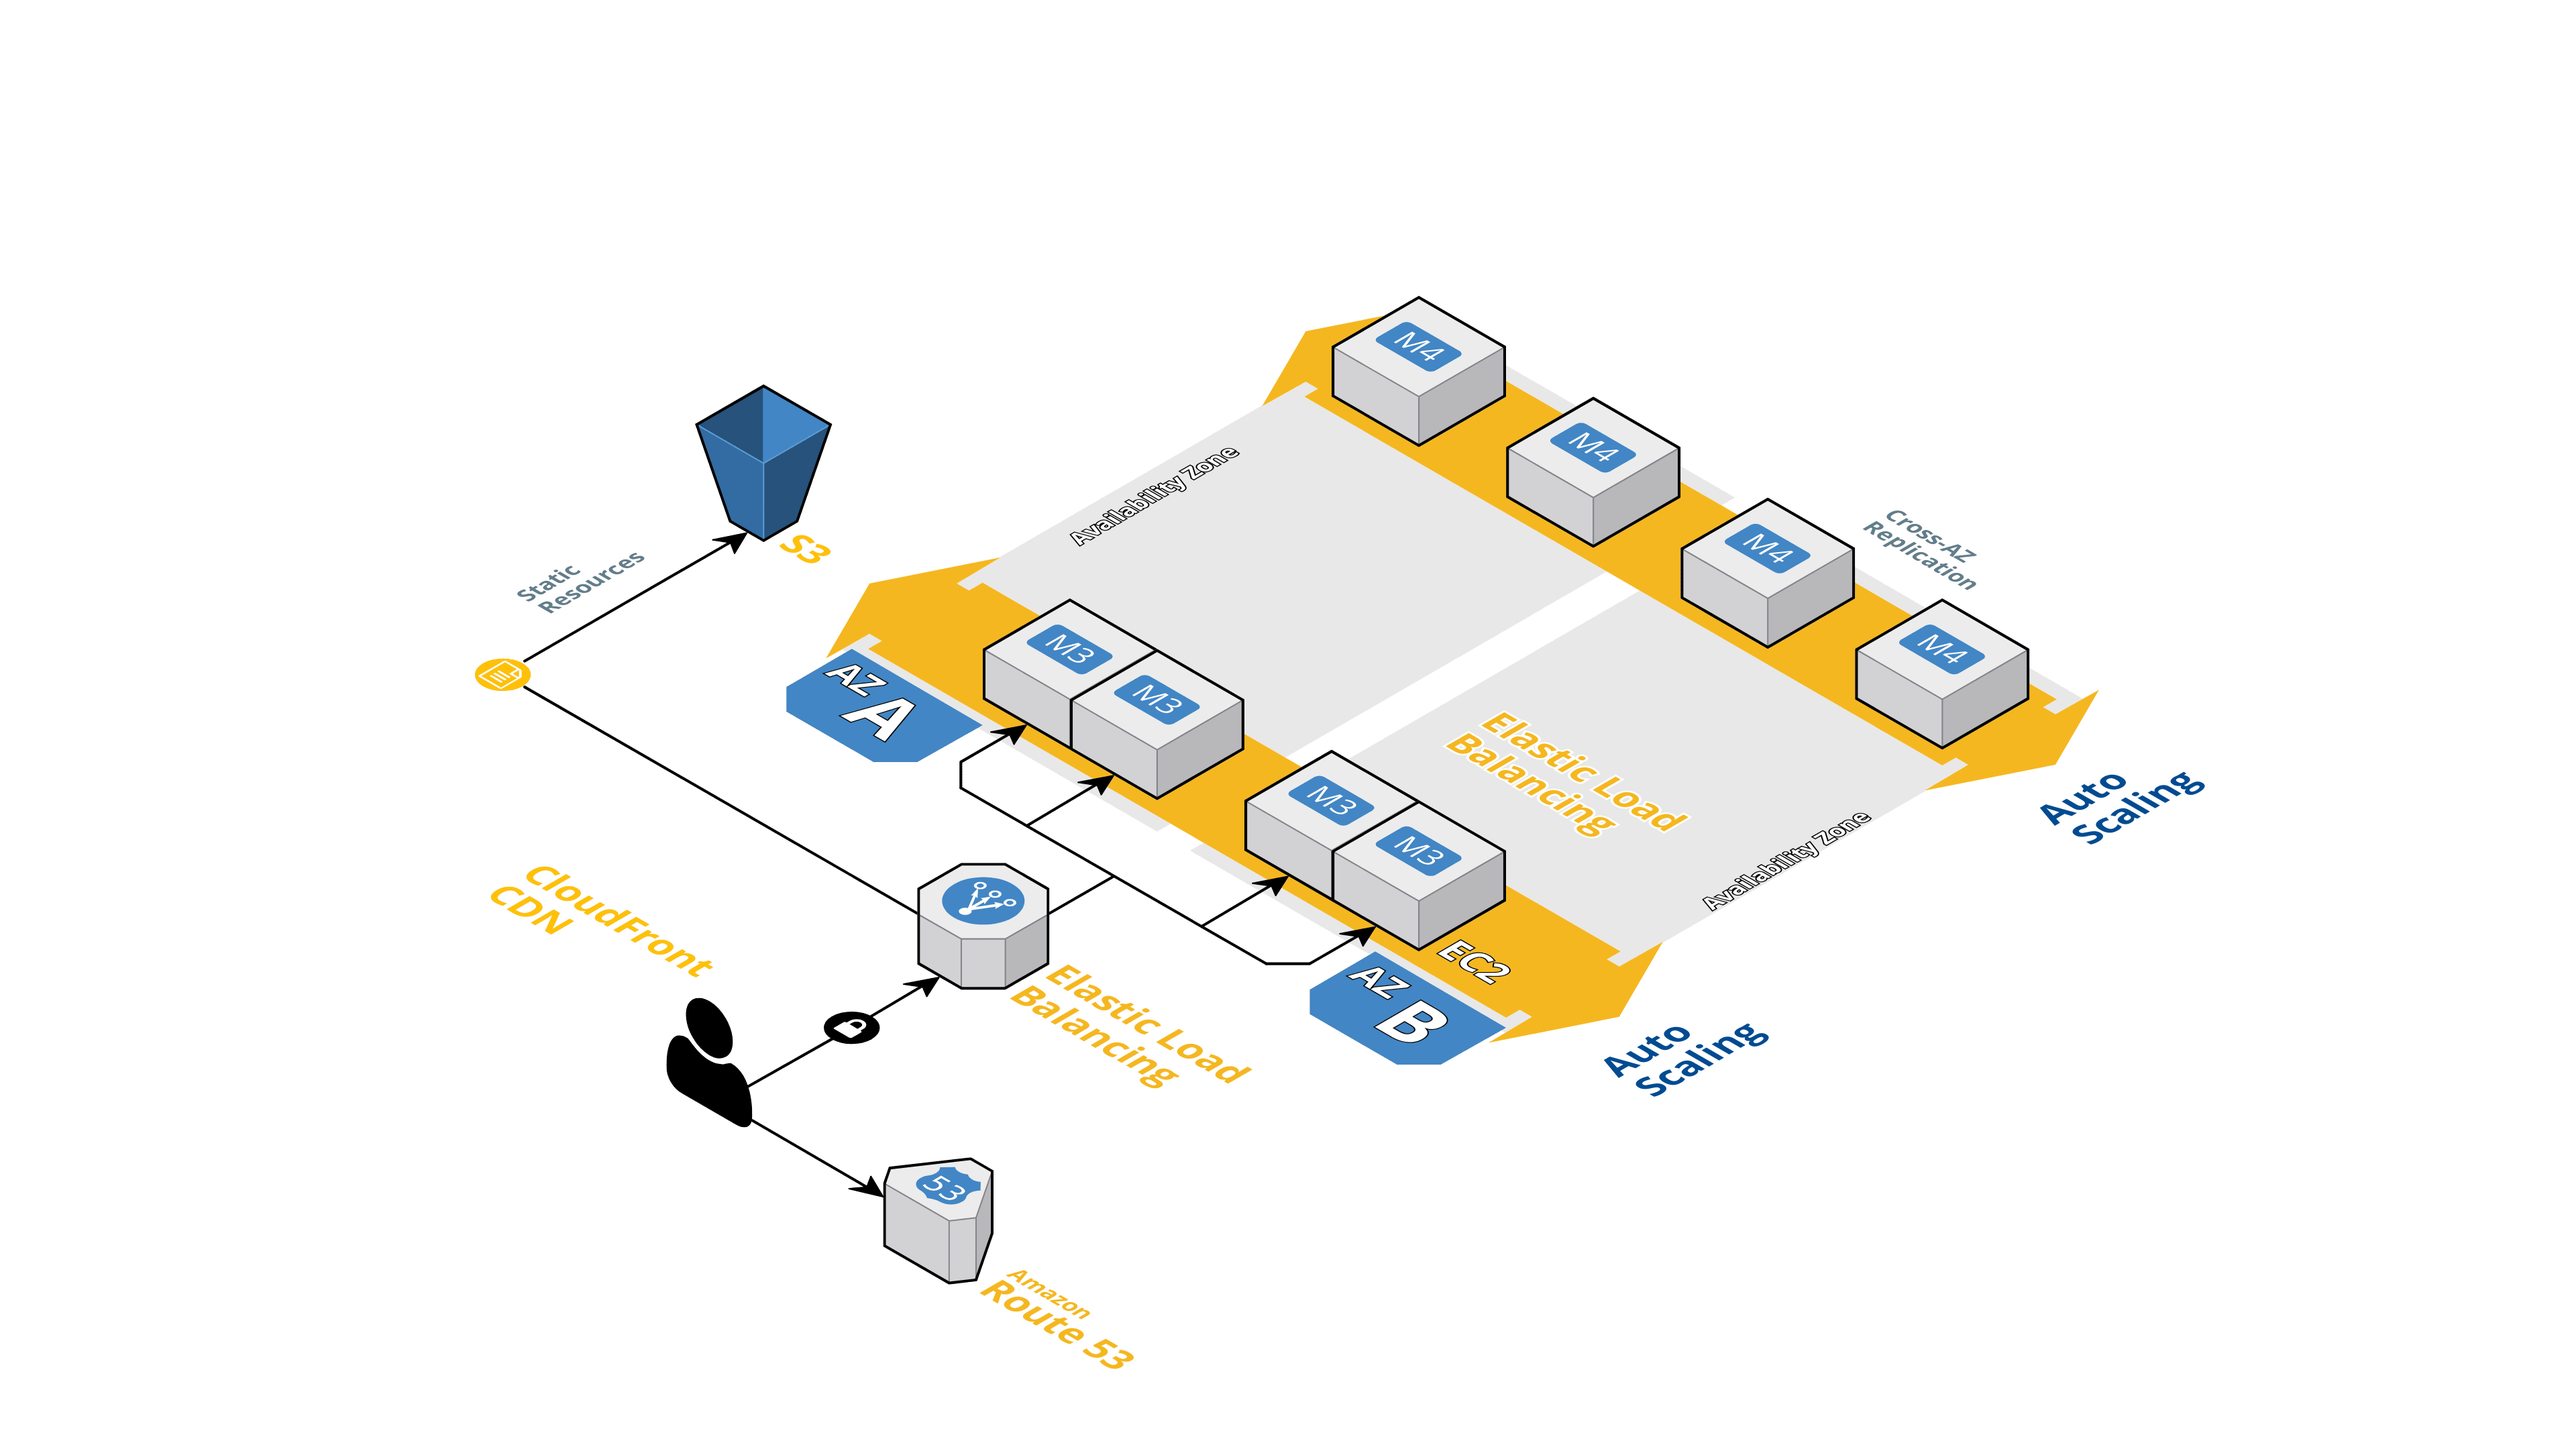
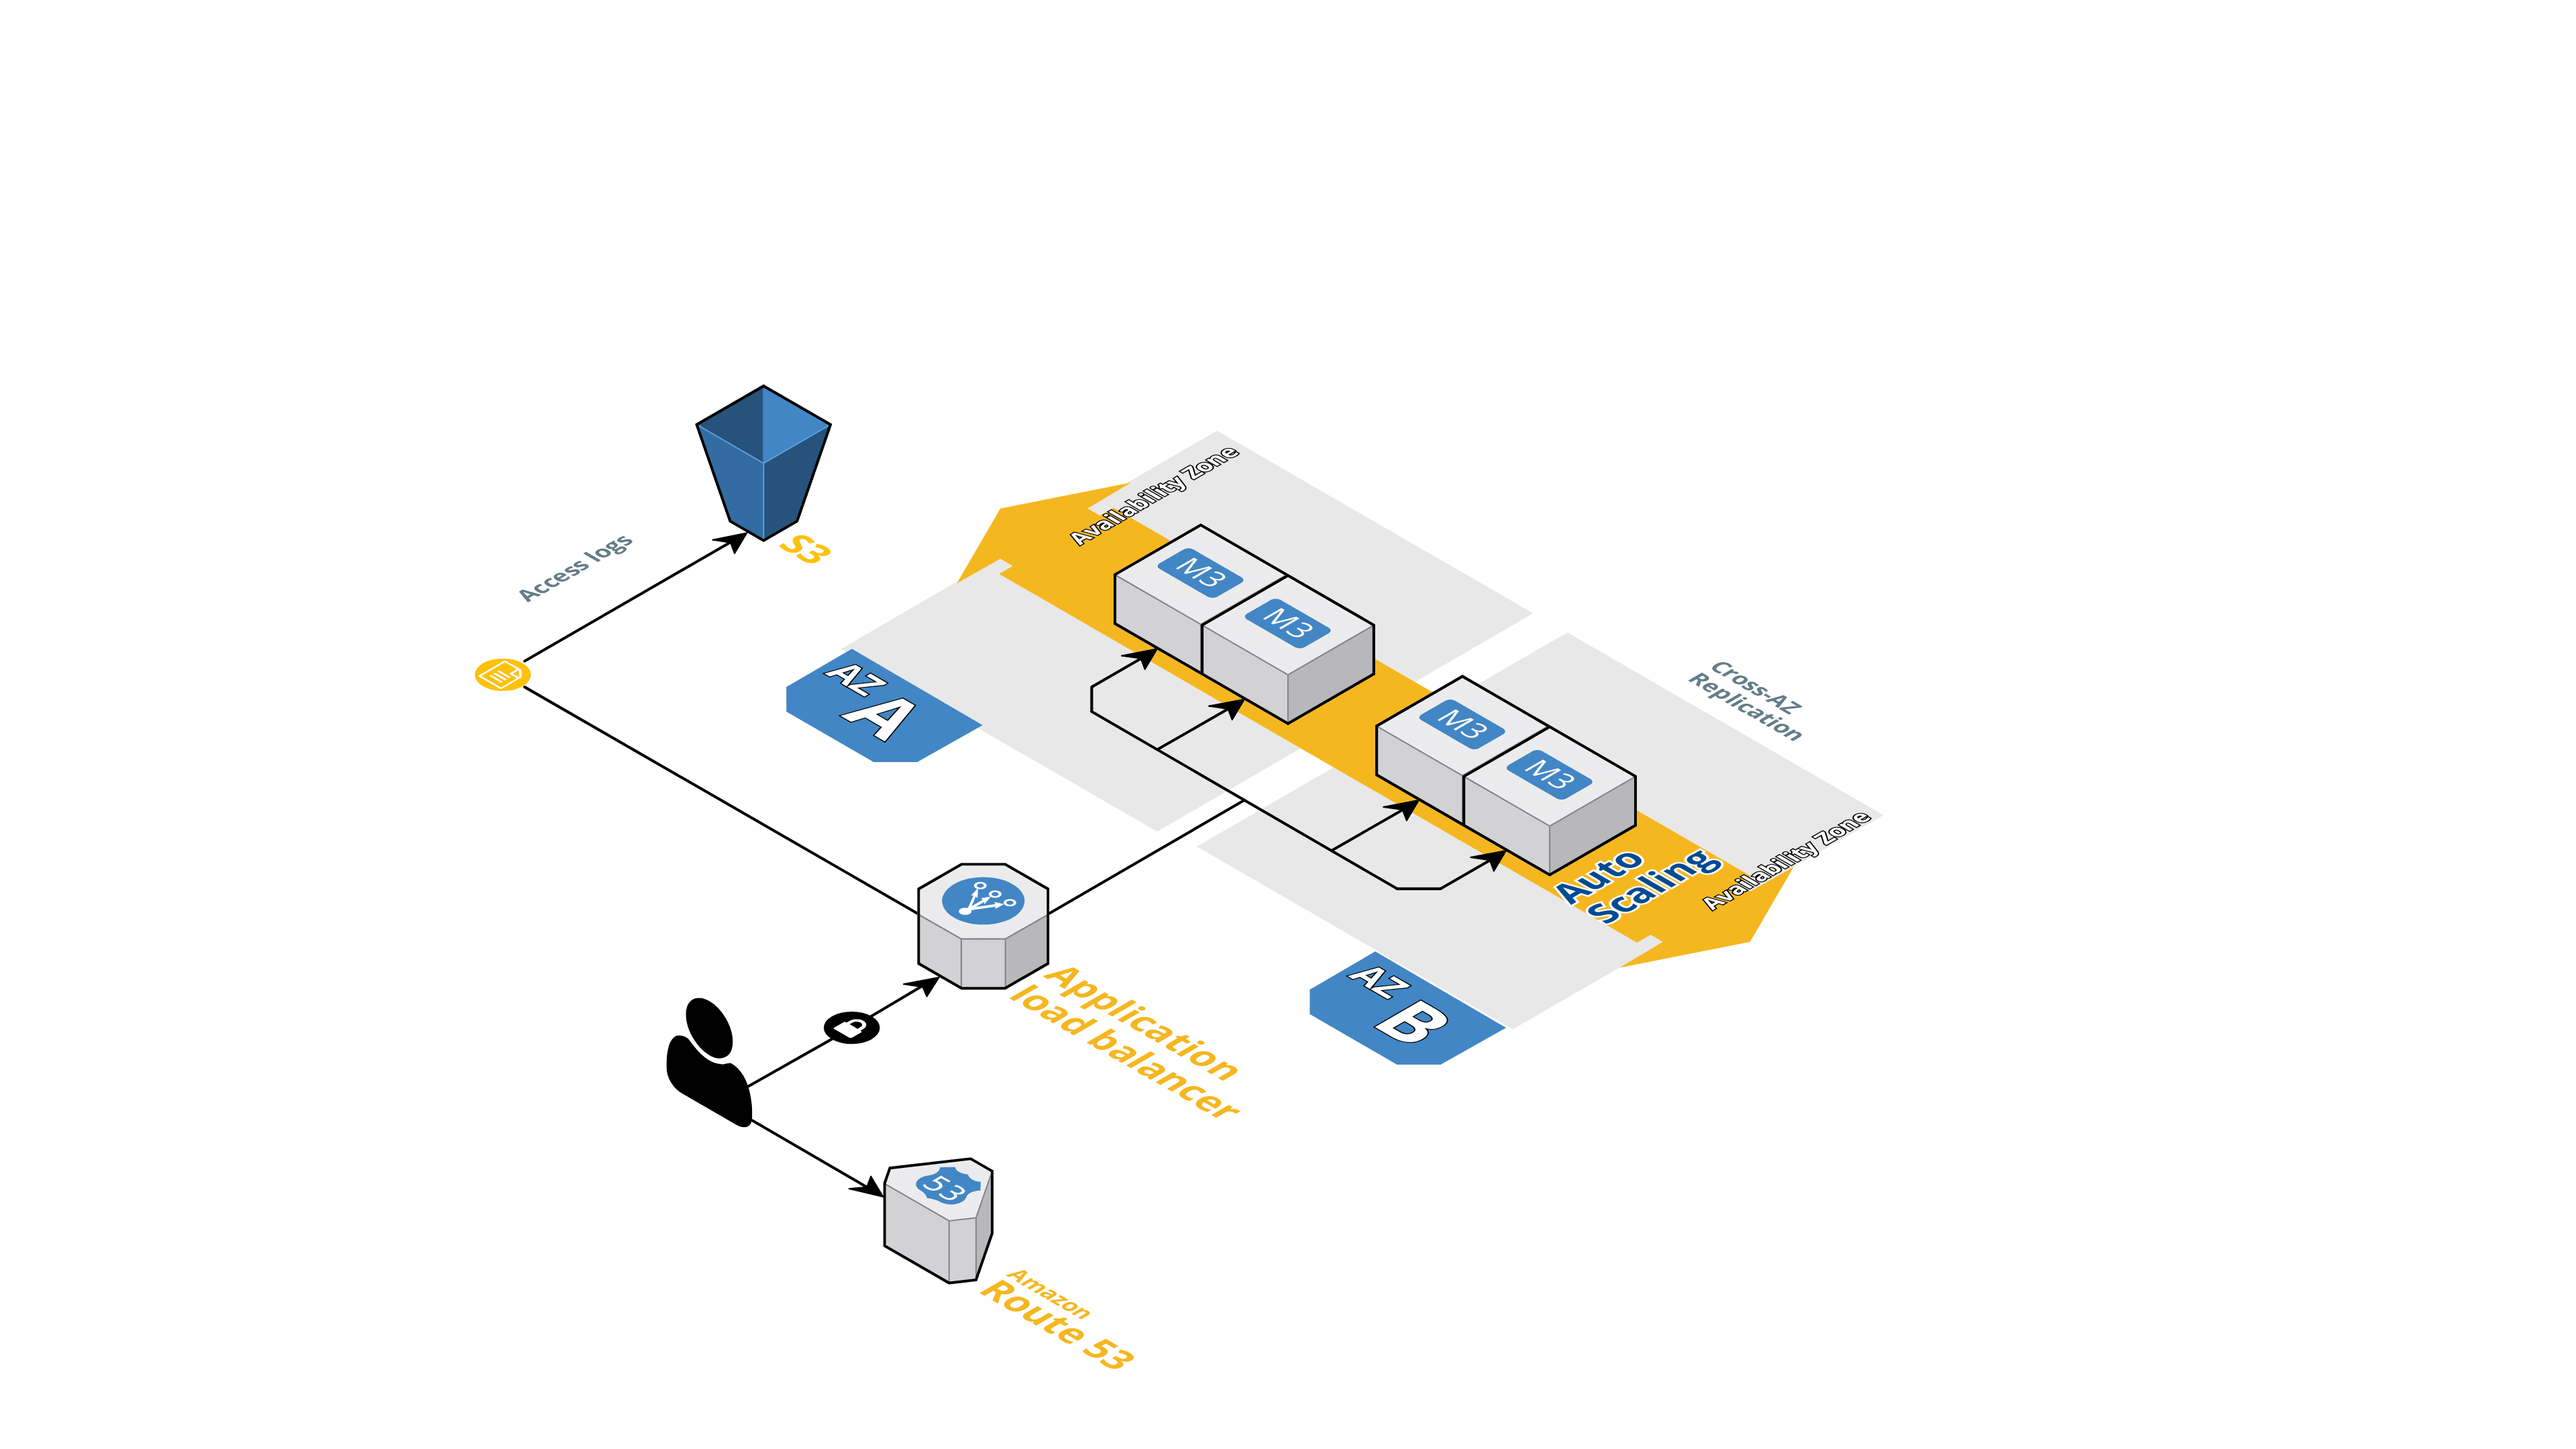
Update Readme

diff --git a/tests/vault_test.go b/tests/vault_test.go
@@ -1,0 +1,59 @@
+package test
+
+import (
+	"fmt"
+	"testing"
+	"time"
+
+	"github.com/gruntwork-io/terratest/modules/aws"
+	"github.com/gruntwork-io/terratest/modules/http-helper"
+	"github.com/gruntwork-io/terratest/modules/random"
+	"github.com/gruntwork-io/terratest/modules/terraform"
+)
+
+// An example of how to test the Terraform module in examples/terraform-http-example using Terratest.
+func TestTerraformHttpExample(t *testing.T) {
+	t.Parallel()
+
+	// A unique ID we can use to namespace resources so we don't clash with anything already in the AWS account or
+	// tests running in parallel
+	uniqueID := random.UniqueId()
+
+	// Give this EC2 Instance and other resources in the Terraform code a name with a unique ID so it doesn't clash
+	// with anything else in the AWS account.
+	instanceName := fmt.Sprintf("terratest-http-vault-%s", uniqueID)
+
+	// Specify the text the EC2 Instance will return when we make HTTP requests to it.
+	instanceText := fmt.Sprintf("Hello, %s!", uniqueID)
+
+	// Pick a random AWS region to test in. This helps ensure your code works in all regions.
+	awsRegion := aws.GetRandomRegion(t, nil, nil)
+
+	terraformOptions := &terraform.Options{
+		// The path to where our Terraform code is located
+		TerraformDir: "../examples/vault-example/",
+
+		// Variables to pass to our Terraform code using -var options
+		Vars: map[string]interface{}{
+			"aws_region":    awsRegion,
+			"instance_name": instanceName,
+			"instance_text": instanceText,
+		},
+	}
+
+	// At the end of the test, run `terraform destroy` to clean up any resources that were created
+	defer terraform.Destroy(t, terraformOptions)
+
+	// This will run `terraform init` and `terraform apply` and fail the test if there are any errors
+	terraform.InitAndApply(t, terraformOptions)
+
+	// Run `terraform output` to get the value of an output variable
+	instanceURL := terraform.Output(t, terraformOptions, "elb_url")
+
+	// It can take a while for the Instance to boot up, so retry a few times
+	maxRetries := 30
+	timeBetweenRetries := 10 * time.Second
+
+	// Verify that we get back a 200 OK with the expected instanceText
+	http_helper.HttpGetWithRetry(t, instanceURL, 200, instanceText, maxRetries, timeBetweenRetries)
+}

diff --git a/README.md b/README.md
@@ -1,11 +1,20 @@
-# Vault AWS Module
 
-This repo contains a Module for how to deploy a [Vault](https://www.vaultproject.io/) cluster on 
-[AWS](https://aws.amazon.com/) using [Terraform](https://www.terraform.io/). Vault is an open source tool for managing
-secrets. By default, this Module uses [Consul](https://www.consul.io) as a [storage 
+<p style="float: left; clear: left">
+<img src="https://encrypted-tbn0.gstatic.com/images?q=tbn:ANd9GcRHLTextHYXdcp0QiGpmIGqrX9BrmRh64M-942raoUTiO5Z9jiLjA" align="left" hspace="20"
+     title="Vault logo" width="" height="">
+</p>
+
+
+This repo contains a Module for how to deploy a
+[Vault](https://www.vaultproject.io/) cluster on [AWS](https://aws.amazon.com/)
+using [Terraform](https://www.terraform.io/). 
+
+
+Vault is an open source tool for managing secrets.
+By default, this Module uses [Consul](https://www.consul.io) as a [storage
 backend](https://www.vaultproject.io/docs/configuration/storage/index.html). 
 
-![Vault architecture](_docs/architecture.png)
+
 
 ## What's a Module?
 
@@ -18,55 +27,102 @@ Instead of having to figure out the details of how to run a piece of infrastruct
 existing code that has been proven in production. And instead of maintaining all that infrastructure code yourself, 
 you can leverage the work of the Module community and maintainers, and pick up infrastructure improvements through
 a version number bump.
- 
+
+<p align="center">
+  <img src="./_docs/architecture.png" alt="Architecture example"
+       width="754" height="450">
+</p>
+
  
 ## How do you use this Module?
 
 1. Create an AMI that has Vault and Consul installed
-   We achieve segregration trough SELinux and systemd
 
-   If you are just experimenting with this Module, you may find it more convenient to use one of our official public AMIs:
+   We achieve segregration trough SELinux and systemd
+   If you are just experimenting with this Module, you may find it more convenient to use one of our 	official public AMIs:
    - [Latest Ubuntu 16 AMIs]().
-   - [Latest Amazon Linux AMIs]().
+   - [Latest Centos Linux AMIs]().
    
-   **WARNING! Do NOT use these AMIs in your production setup. In production, you should build your own AMIs in your 
+   **WARNING! Do NOT use these AMIs in your production setup.<br>
+  	In production, you should build your own AMIs in your 
      own AWS account.**
 
 1. Deploy that AMI across an Auto Scaling Group in a private subnet using the Terraform. 
 
-# Security 
+# Security
 
-1. Ami compliance
+1. AMI with CIS
+2. WAF
+3. Access Logs
+4. Server side encrypted bucket
+5. Encrypted storage
+
+### Port Used
+
+Consul requires up to 6 different ports to work properly, some on TCP, UDP, or both protocols. Below we document the requirements for each port.
+    
+    - HTTP API (Default 8500). This is used by clients to talk to the HTTP API. *Localhost* TCP only
+    - Server RPC (Default 8300). This is used by servers to handle incoming requests from other agents. TCP only.
+    - Serf LAN (Default 8301). This is used to handle gossip in the LAN. Required by all agents. TCP and UDP.
+    - Serf WAN (Default 8302). This is used by servers to gossip over the WAN, to other servers. TCP and UDP. 
+    - As of Consul 0.8 the WAN join flooding feature requires the Serf WAN port (TCP/UDP) to be listening on both WAN and LAN interfaces. 
+
+Vault doesn't need as many ports to work as is just acting as a frontend
+
+    - HTTP API (Default 8200, we use 80). This is used by clients to talk to the
+    HTTP API
+
+### ALBs
+
+The alb is setup with restriction on outbound and inbound traffic. You might
+want to check those.
 
 ## SSL Certificates
 
 There are 2 types of certificates generated, one is the main responsabile to
-handle the traffic to the ALB, the other sets is for internal cluster
-communication and for CLI tools. We generate them at run time, both leveraging
-ACM and cfssl.
+handle the traffic to the ALB, \
+the other sets is for internal cluster communication and for CLI tools. \
+
+We generate them at run time, leveraging ACM and cfssl.
+
+ACM certificates are stored within AWS while the internal certificates are
+stored on an S3 bucket using SSE and granular IAM roles.
 
 
 ## Cgroup isolation
 
 We achieve some isolation using cgroup, leveraging some features of systemd
 
-1. Restict to user
+- Restict services to user
+```
 User=vault
 Group=vault
+```
 
-1. Don't mess with /dev
+- Don't mess with /dev
+```
 PrivateDevices=yes
+```
 
-1. Private tmp
+- Private tmp
+```
 PrivateTmp=yes
+```
 
-1. Read only file system /usr /var /etc
+- Read only file system /usr /var /etc
+```
 ProtectSystem=full
+```
 
-1. Home read only
+- Home read only
+```
 ProtectHome=read-only
+```
+
+## VPC Endpoint
 
 
+## Disaster recovery
 
 ## How do I contribute to this Module?
 
@@ -84,3 +140,4 @@ MINOR, and PATCH versions on each release to indicate any incompatibilities.
 ## License
 
 MIT
+	

diff --git a/CONTRIBUTING.md b/CONTRIBUTING.md
@@ -1,0 +1,86 @@
+# Contribution Guidelines
+
+Contributions to this Module are very welcome! We follow a fairly standard [pull request 
+process](https://help.github.com/articles/about-pull-requests/) for contributions, subject to the following guidelines:
+ 
+1. [File a GitHub issue](#file-a-github-issue)
+1. [Update the documentation](#update-the-documentation)
+1. [Update the tests](#update-the-tests)
+1. [Update the code](#update-the-code)
+1. [Create a pull request](#create-a-pull-request)
+1. [Merge and release](#merge-and-release)
+
+## File a GitHub issue
+
+Before starting any work, we recommend filing a GitHub issue in this repo. This is your chance to ask questions and
+get feedback from the maintainers and the community before you sink a lot of time into writing (possibly the wrong) 
+code. If there is anything you're unsure about, just ask!
+
+## Update the documentation
+
+We recommend updating the documentation *before* updating any code (see [Readme Driven 
+Development](http://tom.preston-werner.com/2010/08/23/readme-driven-development.html)). This ensures the documentation 
+stays up to date and allows you to think through the problem at a high level before you get lost in the weeds of 
+coding.
+
+## Update the tests
+
+We also recommend updating the automated tests *before* updating any code (see [Test Driven 
+Development](https://en.wikipedia.org/wiki/Test-driven_development)). That means you add or update a test case, 
+verify that it's failing with a clear error message, and *then* make the code changes to get that test to pass. This 
+ensures the tests stay up to date and verify all the functionality in this Module, including whatever new 
+functionality you're adding in your contribution. Check out the [tests](https://github.com/hashicorp/terraform-module-aws-vault-enterprisee/tree/master/test) folder for instructions on running the 
+automated tests. 
+
+## Update the code
+
+At this point, make your code changes and use your new test case to verify that everything is working. As you work,
+keep in mind two things:
+
+1. Backwards compatibility
+1. Downtime
+
+### Backwards compatibility
+
+Please make every effort to avoid unnecessary backwards incompatible changes. With Terraform code, this means:
+
+1. Do not delete, rename, or change the type of input variables.
+1. If you add an input variable, it should have a `default`.
+1. Do not delete, rename, or change the type of output variables.
+1. Do not delete or rename a module in the `modules` folder.
+
+If a backwards incompatible change cannot be avoided, please make sure to call that out when you submit a pull request, 
+explaining why the change is absolutely necessary. 
+
+### Downtime
+
+Bear in mind that the Terraform code in this Module is used by real companies to run real infrastructure in 
+production, and certain types of changes could cause downtime. For example, consider the following:
+
+1. If you rename a resource (e.g. `aws_instance "foo"` -> `aws_instance "bar"`), Terraform will see that as deleting
+   the old resource and creating a new one.
+1. If you change certain attributes of a resource (e.g. the `name` of an `aws_elb`), the cloud provider (e.g. AWS) may
+   treat that as an instruction to delete the old resource and a create a new one. 
+   
+Deleting certain types of resources (e.g. virtual servers, load balancers) can cause downtime, so when making code
+changes, think carefully about how to avoid that. For example, can you avoid downtime by using 
+[create_before_destroy](https://www.terraform.io/docs/configuration/resources.html#create_before_destroy)? Or via
+the `terraform state` command? If so, make sure to note this in our pull request. If  downtime cannot be avoided, 
+please make sure to call that out when you submit a pull request. 
+
+## Create a pull request
+
+[Create a pull request](https://help.github.com/articles/creating-a-pull-request/) with your changes. Please make sure
+to include the following:
+
+1. A description of the change, including a link to your GitHub issue.
+1. The output of your automated test run, preferably in a [GitHub Gist](https://gist.github.com/). We cannot run 
+   automated tests for pull requests automatically due to [security 
+   concerns](https://circleci.com/docs/fork-pr-builds/#security-implications), so we need you to manually provide this 
+   test output so we can verify that everything is working.
+1. Any notes on backwards incompatibility or downtime.
+
+## Merge and release   
+
+The maintainers for this repo will review your code and provide feedback. If everything looks good, they will merge the
+code and release a new version, which you'll be able to find in the [releases page](../../releases).
